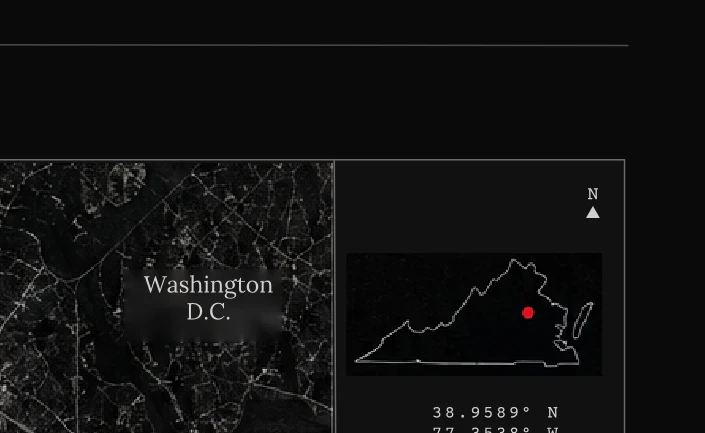
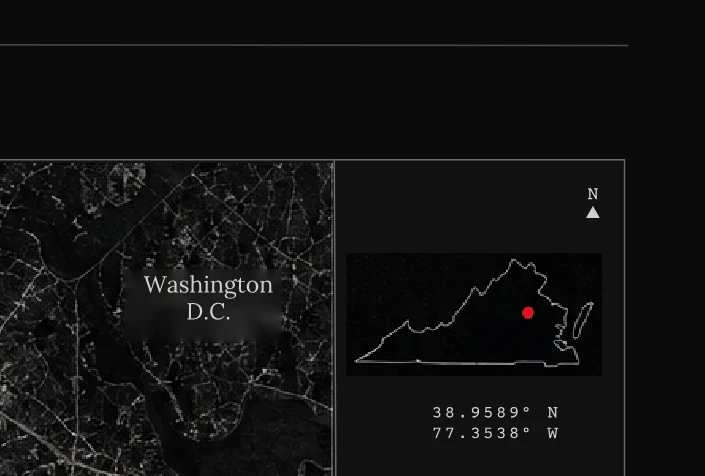
Extend Banfield map inset crop for full coordinate labels.
yEnd 0.525 yields 705×476 so both lat/long lines show with bottom margin; vitimas crop unchanged at 414×410.

diff --git a/scripts/test-banfield-html-figures.ts b/scripts/test-banfield-html-figures.ts
@@ -56,7 +56,7 @@ async function testFigureAssets() {
   assert.ok(mainAspect <= 352 / MOBILE_MAP_MIN_HEIGHT_AT_352 + 0.02, `fig-mapa-main aspect ${mainAspect}`);
 
   assert.ok(miw >= 650 && miw <= 780, `fig-mapa-inset width ${miw}`);
-  assert.ok(mih >= 400 && mih <= 460, `fig-mapa-inset height ${mih}`);
+  assert.ok(mih >= 400 && mih <= 490, `fig-mapa-inset height ${mih}`);
 
   assert.ok(mw >= 1500, `fig-mapa width ${mw}`);
   assert.ok(mh >= 250 && mh <= 320, `fig-mapa height ${mh}`);

diff --git a/src/lib/dossier/processing-config.ts b/src/lib/dossier/processing-config.ts
@@ -373,7 +373,7 @@ export const BANFIELD_HTML_FIGURE_CROPS: HtmlFigureCrop[] = [
     xStart: 0.55,
     xEnd: 0.985,
     yStart: 0.36,
-    yEnd: 0.51,
+    yEnd: 0.525,
   },
   {
     assetId: "fig-mapa",

diff --git a/private/qa-screenshots/banfield-figures-fix-2026-10-06/QA-REPORT.md b/private/qa-screenshots/banfield-figures-fix-2026-10-06/QA-REPORT.md
@@ -1,27 +1,39 @@
 # Banfield figures fix — QA report (2026-10-06)
 
+## Inset fix (fig-mapa-inset)
+
+- **Problema:** crop 705×433 (`yEnd=0.51`) cortava a segunda linha de coordenadas (`77.3538° W`).
+- **Correção:** apenas `yEnd` 0.51 → **0.525** (sem alterar `xStart`/`xEnd`/`yStart`).
+- **Dimensões finais:** **705×476** (rect px: left 891, top 1036, right 1596, bottom 1512).
+- **Verificação visual:** `asset-verify-inset.png` — ambas as linhas (`38.9589° N`, `77.3538° W`) visíveis com margem inferior; coluna N/seta e contorno da Virgínia intactos.
+- **fig-vitimas:** **414×410** inalterado (SHA `98419580f172080a…`); crop não tocado; ficheiro não regenerado nesta passagem.
+
 ## Asset verification (source crop)
 
-- `asset-verify-fig-vitimas.png` — grade 2×2 limpa (sem «01. RESUMO DO» nem parágrafo lateral).
-- `asset-verify-fig-mapa.png` — mapa completo Fairfax / DC / inset Virgínia (sem faixa «02. MAPA»).
-- `ASSET-MANIFEST.json` — dimensões e SHA-256 dos `.webp` publicados.
+- `asset-verify-inset.png` — inset com coordenadas completas.
+- `ASSET-MANIFEST.json` — dimensões e SHA-256 dos `.webp` locais.
 
 ## Automated tests
 
-- `npm run test:banfield-html-figures` — PASS (dimensões + aspecto; rejeita perfil 1440×287 defeituoso).
-- `npm run dossier:bootstrap-banfield-html` — publicado **documento v2** (Blob + Postgres quando `.env.local` carregado).
+- `npm run test:banfield-html-figures` — **PASS** (inset height até 490px).
+- `npm run build` — **PASS**.
+- `npm run dossier:bootstrap-banfield-document` — **PASS** (Blob + Postgres com `.env.local`).
 
 ## Reader screenshots (390 / 430 / 768 / 1280 + lightbox)
 
-Pendente: `node scripts/qa-banfield-figures-capture.mjs https://crime-mania-jkh527u06-investwise.vercel.app` após `npx playwright install chromium`.
+**Bloqueado nesta sessão:** Playwright Chromium não instalado (`npx playwright install chromium` necessário). Reexecutar:
+
+```bash
+node scripts/qa-banfield-figures-capture.mjs https://<preview-host>
+```
 
 ## Preview deploy (não produção)
 
-- https://crime-mania-jkh527u06-investwise.vercel.app/dossiers/familia-banfield
-- Commit: `c36f66a` on branch `hotfix/banfield-figures-2026-10-06`
+- Branch: `hotfix/banfield-figures-2026-10-06`
+- Commit: _(atualizar após push)_
+- URL preview: _(Vercel deployment desta branch — sem promote produção)_
 
 ## Produção
 
-- **Deploy produção atual (GitHub):** `1cc75c4` — anterior a este hotfix; pode servir **fig-mapa/fig-vitimas v1** defeituosos se bootstrap antigo rodou.
-- **SHA `03b61367`:** não encontrado no histórico git local (provável ID Vercel, não commit).
-- **Ação:** apenas preview após push; **sem promote produção** até reautorização pós-QA visual completa.
+- **Sem deploy produção** até OK explícito do owner.
+- Commit `f86e8a9` não deve ir para produção como estado final deste hotfix.

diff --git a/private/qa-screenshots/banfield-figures-fix-2026-10-06/FIGURE-INVENTORY.md b/private/qa-screenshots/banfield-figures-fix-2026-10-06/FIGURE-INVENTORY.md
@@ -20,4 +20,11 @@ Blocos `m05-mapa` / `d03-mapa` ainda cobrem a **seção** 02 (inclui título). O
 
 ## Assets HTML locais (após `dossier:extract-banfield-figures`)
 
-Ver `ASSET-MANIFEST.json` nesta pasta (gerado na QA).
+Ver `ASSET-MANIFEST.json` nesta pasta.
+
+| Asset | Dimensões | SHA-256 (prefixo) | Notas |
+| --- | --- | --- | --- |
+| fig-vitimas | 414×410 | `98419580f172080a` | Aprovado; crop inalterado |
+| fig-mapa-main | 908×465 | `7a0d7a6e97e2ab13` | Aprovado anteriormente |
+| fig-mapa-inset | 705×476 | `491cecfdf8508366` | `yEnd=0.525`; coords completas |
+| fig-mapa | 1594×294 | `2aff24438fa23443` | Panorama mapa HTML |
